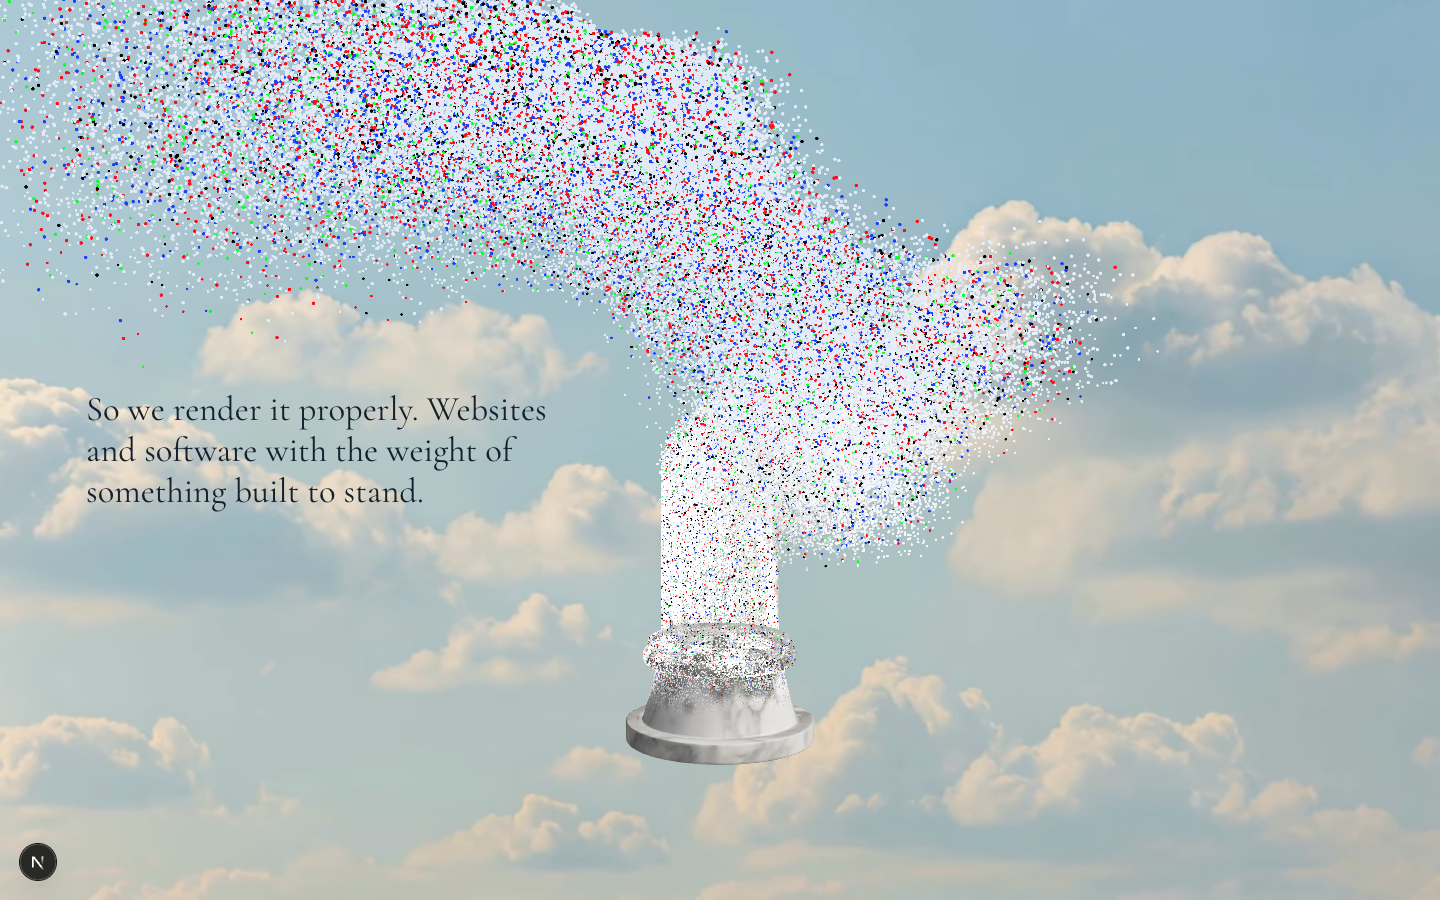
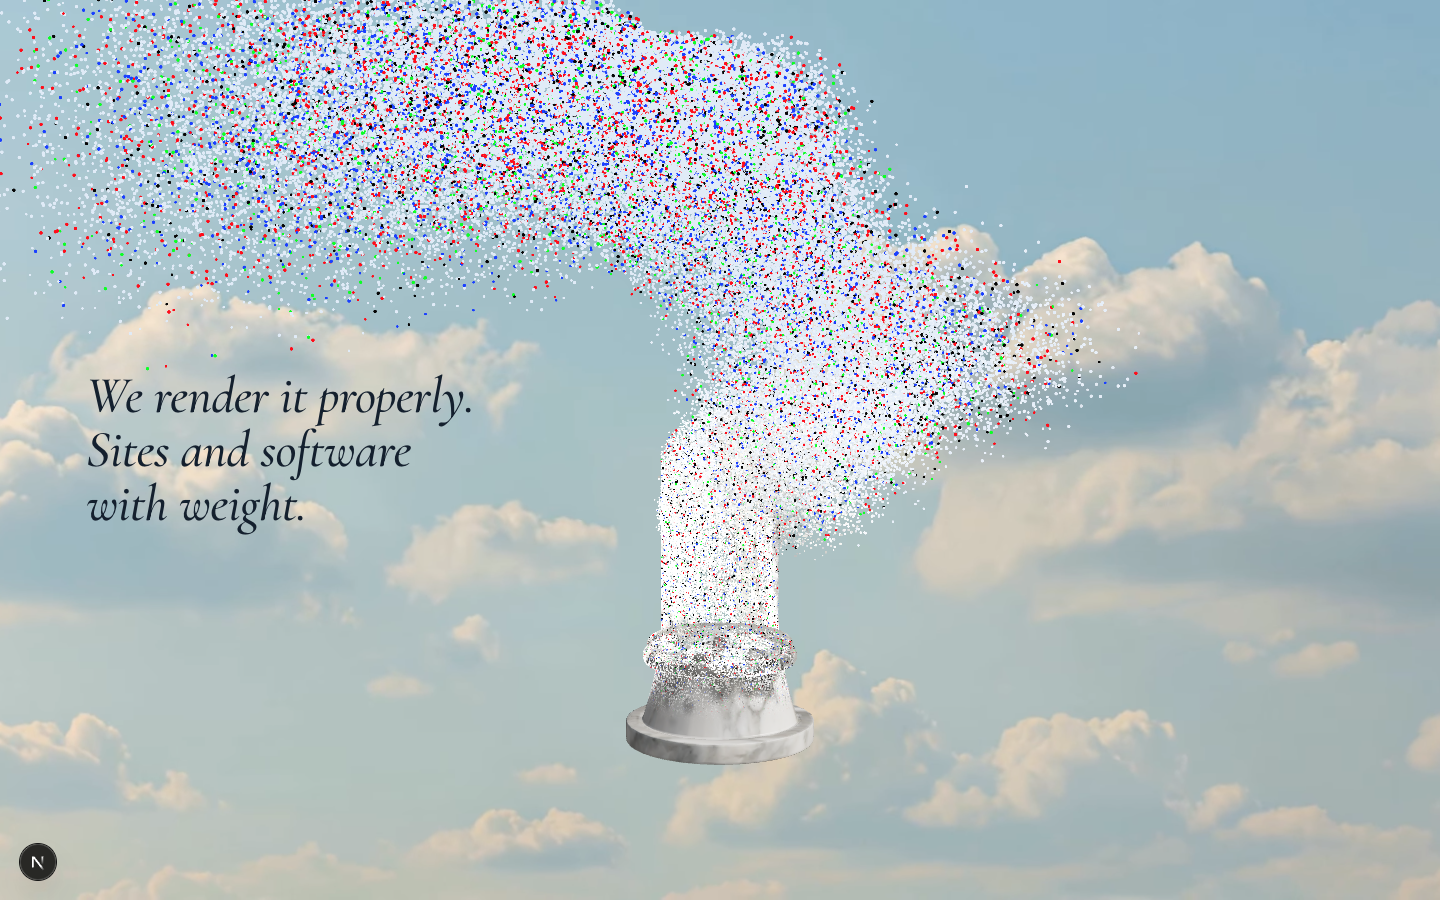
Scroll copy: italic display at headline size, short declarative lines
Claude-Session: https://claude.ai/code/session_01NAdPXLUXCGhh82qBsMYyAh

diff --git a/src/hero/lines.ts b/src/hero/lines.ts
@@ -3,9 +3,9 @@ export const COPY = {
   preloader: "Cutting the marble.",
   wordmark: ["Build", "Different"],
   headline1: "We build things that age well.",
-  block1: "Permanence used to take a quarry, a chisel and most of a lifetime. The brief has not changed. The material has.",
-  block2: "Nothing on the internet is carved. Everything is rendered, and most of it is rendered badly.",
-  block3: "So we render it properly. Websites and software with the weight of something built to stand.",
+  block1: "Most websites look fine.\nFew are built to last.",
+  block2: "Nothing online is carved.\nEverything is rendered.\nMost of it badly.",
+  block3: "We render it properly.\nSites and software\nwith weight.",
   cta: "Start a project",
   scrollHint: "Scroll",
 } as const;

diff --git a/src/app/globals.css b/src/app/globals.css
@@ -268,13 +268,16 @@ body {
   left: clamp(1.25rem, 6vw, 6rem);
   top: 50%;
   transform: translateY(-50%);
-  width: min(34vw, 30ch);
+  width: min(40vw, 22ch);
   font-family: var(--font-display);
-  font-weight: 400;
-  font-size: clamp(var(--step-2), 2.4vw, var(--step-4));
-  line-height: 1.18;
+  font-style: italic;
+  font-weight: 500;
+  font-size: clamp(var(--step-3), 3.6vw, var(--step-6));
+  line-height: 1.04;
+  letter-spacing: -0.012em;
   color: var(--ink);
-  text-wrap: pretty;
+  white-space: pre-line;
+  text-wrap: balance;
 }
 .copy--block.copy--right {
   left: auto;

diff --git a/src/app/layout.tsx b/src/app/layout.tsx
@@ -5,7 +5,7 @@ import "./globals.css";
 const display = Cormorant_Garamond({
   variable: "--font-display-src",
   subsets: ["latin"],
-  weight: ["400", "500"],
+  weight: ["400", "500", "600"],
   style: ["normal", "italic"],
 });
 
